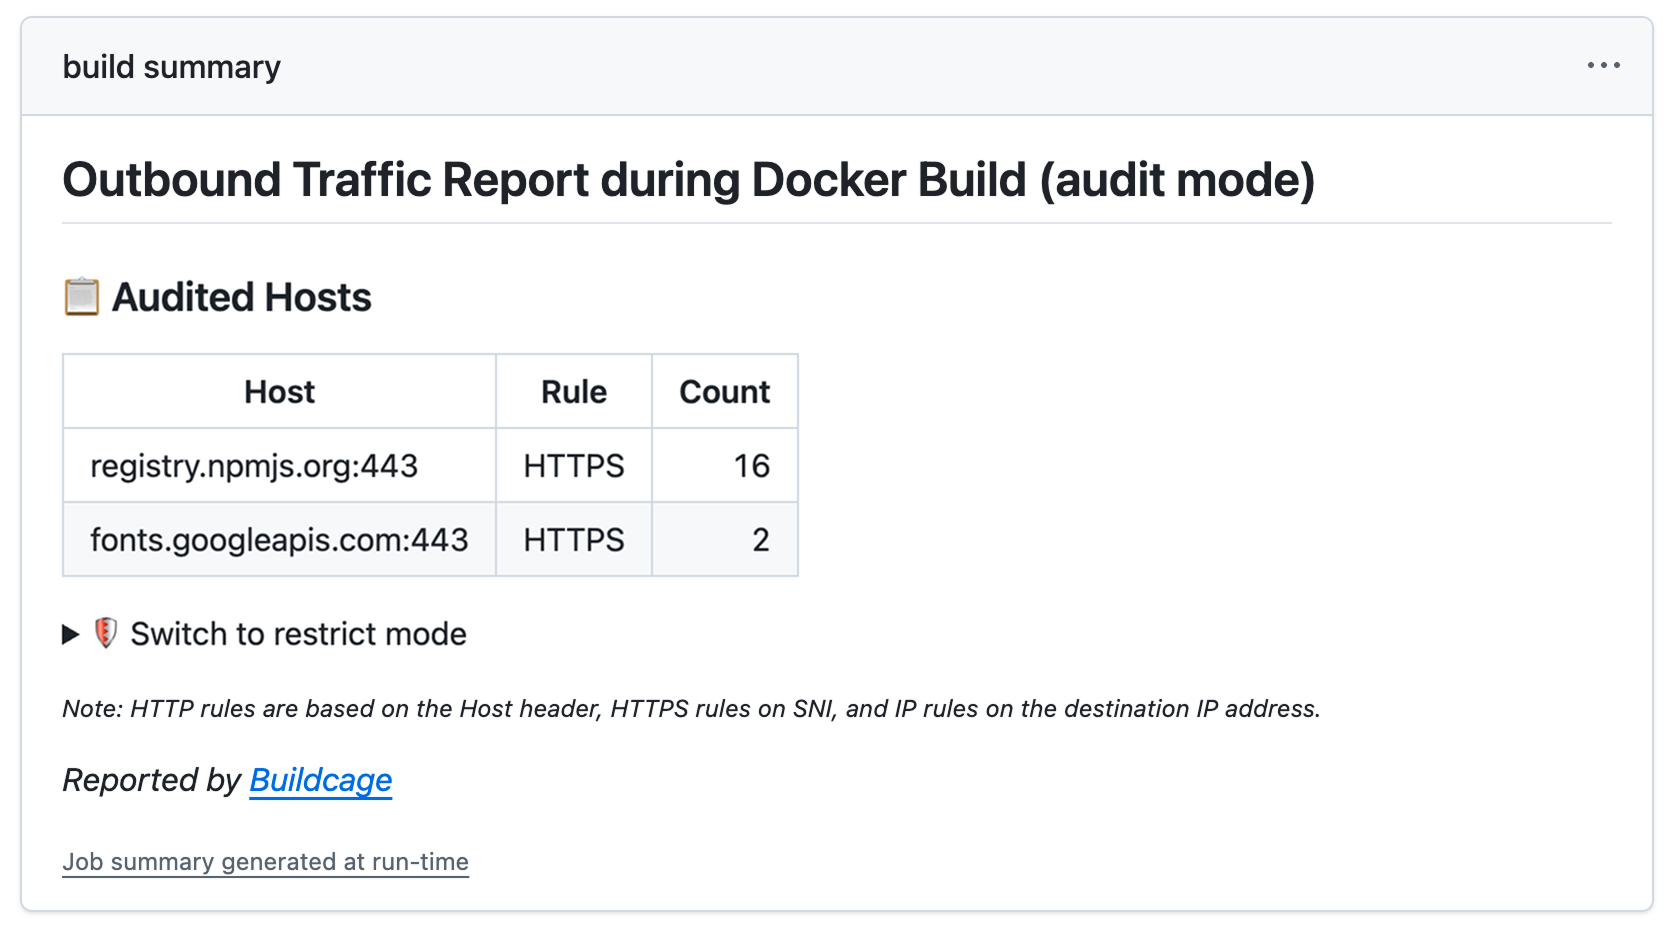
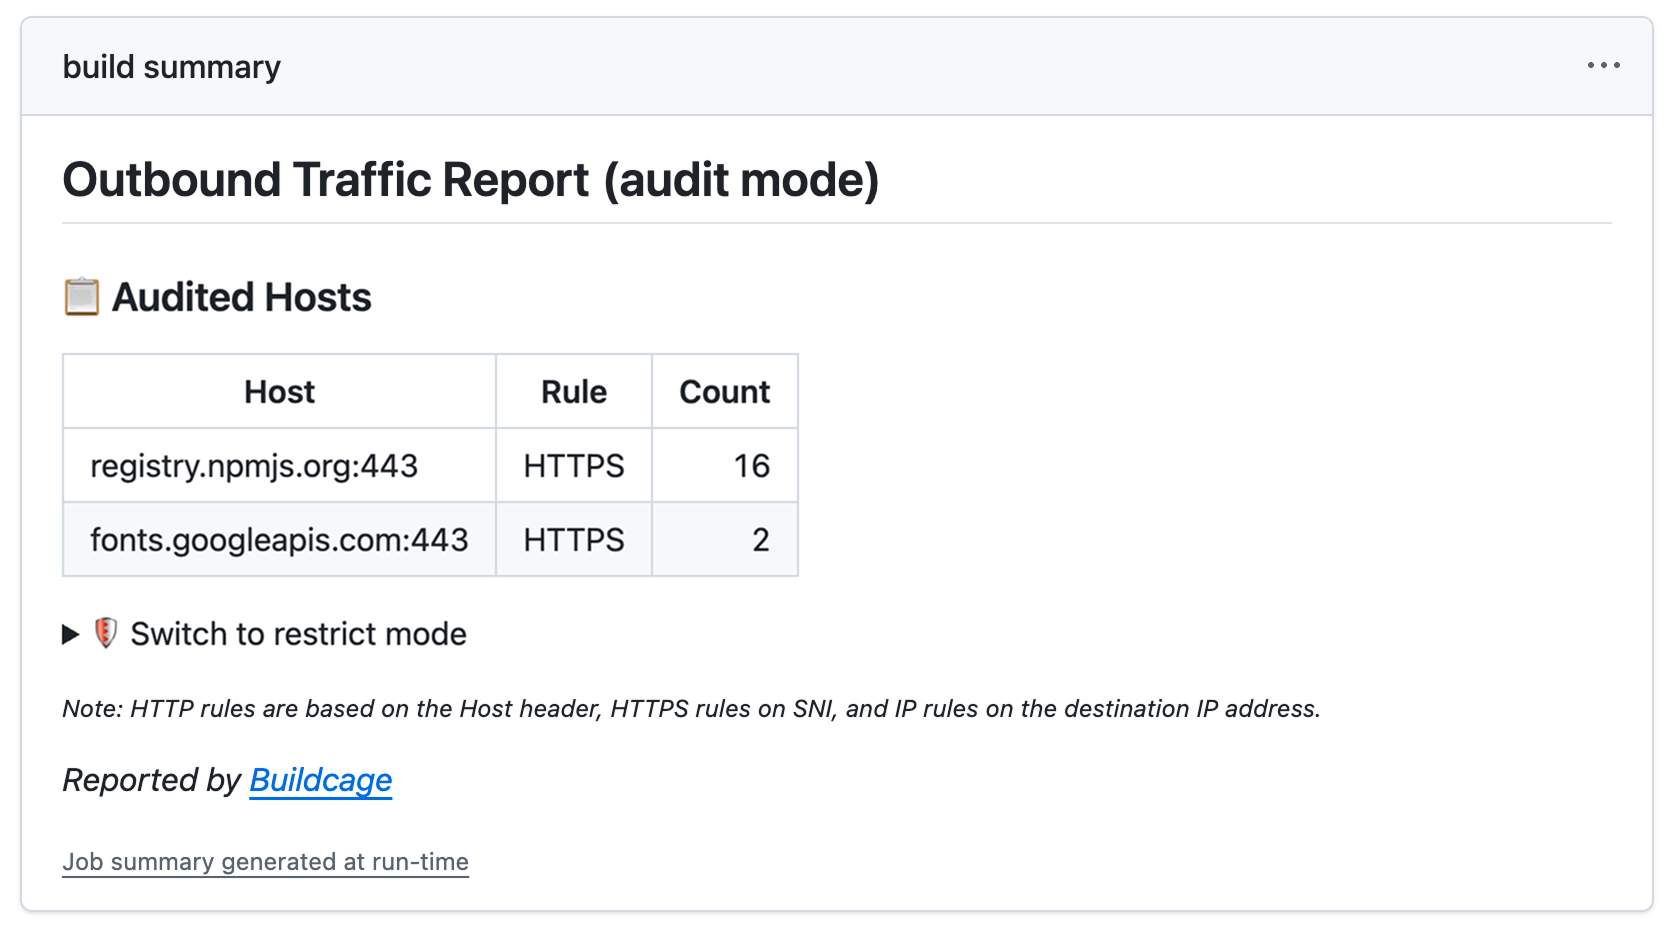
fix: Shorten the report heading to Outbound Traffic Report

Changed region(s): [[0.3425, 0.1556, 0.8096, 0.2178]]

diff --git a/src/core/lib/report/render/render-report-markdown.test.ts b/src/core/lib/report/render/render-report-markdown.test.ts
@@ -39,10 +39,8 @@ describe("renderReportMarkdown — transparent", () => {
   };
 
   it("renders the restrict-mode heading and Allowed Hosts table", () => {
-    const md = renderReportMarkdown({ ...base, passed: [allowedRow] }, "buildcage/docker", "v2", {
-      title: "Outbound Traffic Report during Docker Build",
-    });
-    expect(md).toMatch(/## Outbound Traffic Report during Docker Build \(restrict mode\)/);
+    const md = renderReportMarkdown({ ...base, passed: [allowedRow] }, "buildcage/docker", "v2");
+    expect(md).toMatch(/## Outbound Traffic Report \(restrict mode\)/);
     expect(md).toMatch(/### ✅ Allowed Hosts/);
     expect(md).toMatch(/good\.com/);
   });

diff --git a/src/core/lib/report/render/render-report-markdown.ts b/src/core/lib/report/render/render-report-markdown.ts
@@ -4,9 +4,9 @@ import { renderCommunicationDetails } from "./communication-details.ts";
 import type { ReportData } from "../types.ts";
 
 export interface RenderReportMarkdownOptions {
-  /** Full heading text, e.g. "Outbound Traffic Report during Docker Build"
-   *  or "Outbound Traffic Report — npm install". Defaults to a bare
-   *  "Outbound Traffic Report". */
+  /** Full heading text, e.g. "Outbound Traffic Report — npm install".
+   *  Defaults to a bare "Outbound Traffic Report", which is what both
+   *  engines' report scripts use. */
   title?: string;
 }
 

diff --git a/docker/explicit/scripts/report-action.node.ts b/docker/explicit/scripts/report-action.node.ts
@@ -79,7 +79,6 @@ async function main(): Promise<void> {
     report,
     process.env.GITHUB_ACTION_REPOSITORY || "buildcage/docker",
     process.env.GITHUB_ACTION_REF || "v2",
-    { title: "Outbound Traffic Report during Docker Build" },
   );
 
   await writeStepSummary(markdown);

diff --git a/docker/transparent/scripts/report-action.node.ts b/docker/transparent/scripts/report-action.node.ts
@@ -35,7 +35,6 @@ async function main(): Promise<void> {
     report,
     process.env.GITHUB_ACTION_REPOSITORY || "buildcage/docker",
     process.env.GITHUB_ACTION_REF || "v2",
-    { title: "Outbound Traffic Report during Docker Build" },
   );
 
   await writeStepSummary(markdown);
